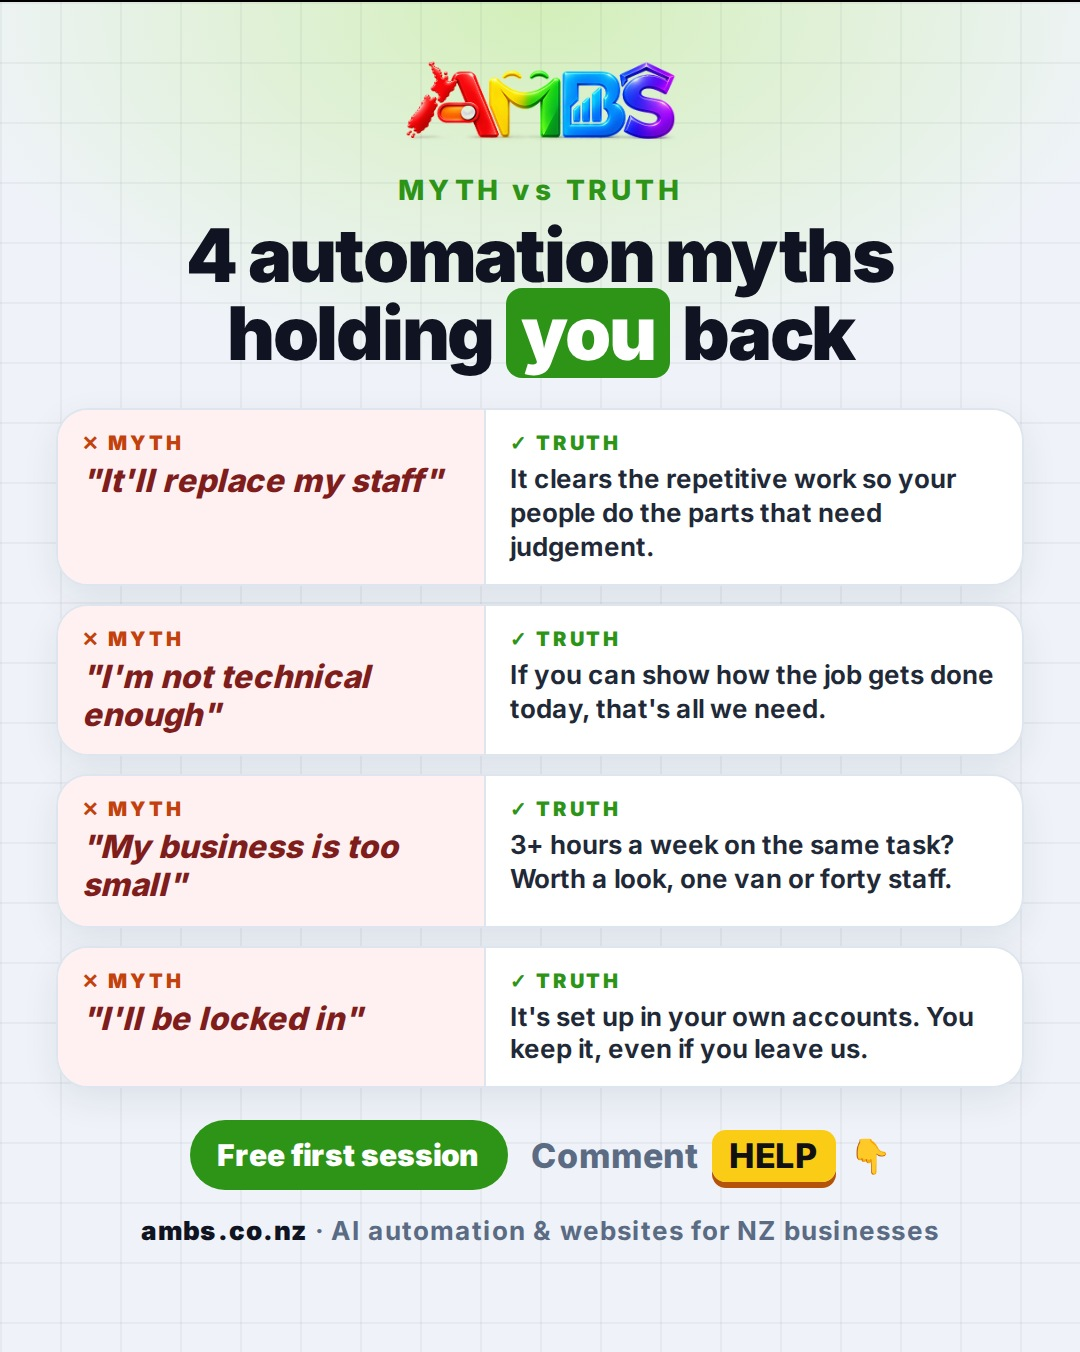
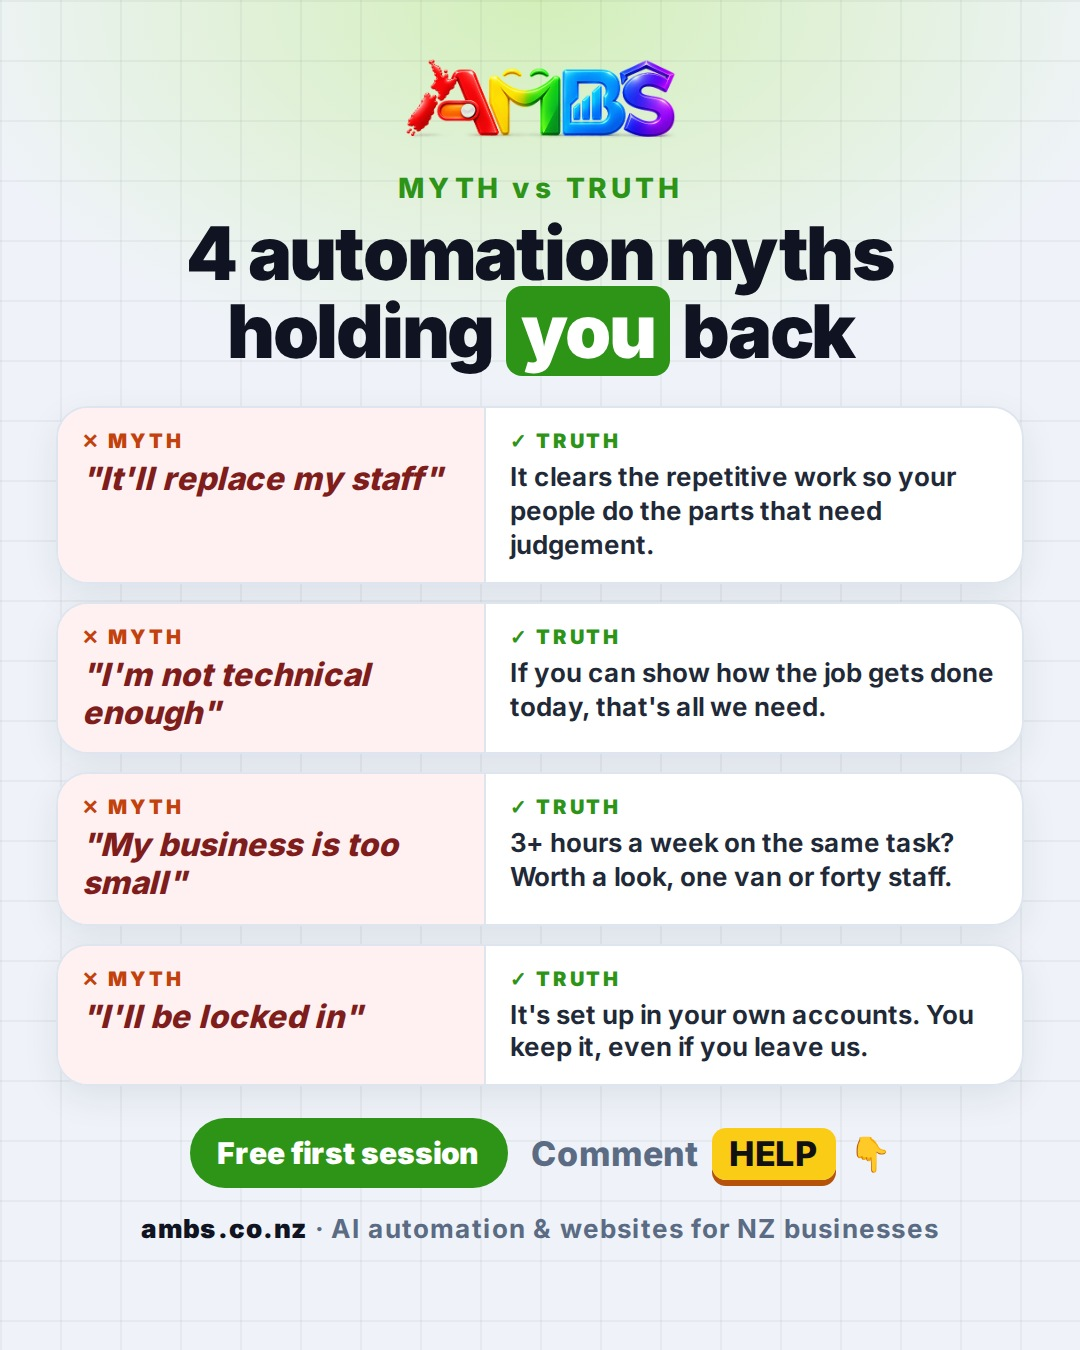
Add Delta Air testimonial posts (feed + story); fix poster edge rounding
Claude-Session: https://claude.ai/code/session_01UEFq6Row7p6wmTAvf3EyaN

diff --git a/marketing-videos/posters/_testimonial.css b/marketing-videos/posters/_testimonial.css
@@ -1,0 +1,18 @@
+/* Shared look for the Delta Air testimonial posts. Screenshot is 1440x2786; slices are shown at 480px wide (×1/3). */
+:root { --cream: #fbf6f1; --brown: #ad8876; --dk: #3a2a22; --gold: #f5b301; --green: #2E9418; }
+#frame { display: flex; flex-direction: column; align-items: center; text-align: center; color: var(--dk);
+  background: radial-gradient(70% 40% at 50% 0%, #f3e3d8 0%, transparent 70%), var(--cream); }
+#frame::before { background-image: radial-gradient(rgba(58,42,34,.07) 1px, transparent 1.4px); background-size: 18px 18px; }
+.logo { position: relative; width: 110px; }
+.kicker { position: relative; margin-top: 8px; font-size: 13px; font-weight: 900; letter-spacing: .18em; color: var(--brown); }
+.kicker span { font-family: var(--emoji); letter-spacing: 1px; }
+h1 { position: relative; margin-top: 6px; font-size: 34px; line-height: 1.06; font-weight: 900; letter-spacing: -.03em; padding: 0 26px; }
+h1 mark { background: var(--dk); color: #fff; padding: 0 8px; border-radius: 8px; }
+.card { position: relative; width: 480px; border-radius: 24px; overflow: hidden; background: var(--brown);
+  box-shadow: 0 20px 50px rgba(58,42,34,.28), 0 0 0 4px #fff; }
+.slice { width: 480px; background-image: url("img/delta-air-testimonial.jpg"); background-size: 480px auto; background-repeat: no-repeat; }
+.res { position: relative; display: inline-flex; gap: 10px; align-items: center; background: #fff; border: 2px solid rgba(46,148,24,.45);
+  border-radius: 16px; padding: 10px 16px; font-size: 16px; font-weight: 800; box-shadow: 0 8px 20px rgba(58,42,34,.08); }
+.res b { color: var(--green); }
+.cta { position: relative; font-size: 16px; font-weight: 800; color: #7a5f52; }
+.cta span.k { background: var(--dk); color: #fff; padding: 3px 9px; border-radius: 7px; margin: 0 3px; }

diff --git a/marketing-videos/posters/11-delta-air-testimonial-story.html b/marketing-videos/posters/11-delta-air-testimonial-story.html
@@ -1,0 +1,21 @@
+<!doctype html>
+<html lang="en-NZ"><head><meta charset="utf-8"><title>Poster — Delta Air testimonial (story)</title>
+<link rel="stylesheet" href="../engine/base.css"><link rel="stylesheet" href="_testimonial.css">
+<style>
+  .logo { margin-top: 64px; width: 100px; }
+  h1 { font-size: 30px; }
+  .card { margin-top: 16px; width: 440px; }
+  .slice { width: 440px; background-size: 440px auto; }
+  .res { font-size: 15px; }
+</style></head><body>
+<div id="frame">
+  <img class="logo" src="../assets/ambs-logo.png" alt="AMBS">
+  <div class="kicker">CLIENT LOVE <span>⭐⭐⭐⭐⭐</span></div>
+  <h1>You imagine it.<br><mark>We make it happen.</mark></h1>
+  <div class="card">
+    <div class="slice" style="height:58px;background-position:0 -46px"></div>
+    <div class="slice" style="height:542px;background-position:0 -209px"></div>
+  </div>
+  <div class="res" style="margin-top:22px"><span class="emoji">📈</span><span>Their new website is <b>bringing in a lot more business</b></span></div>
+  <div class="cta" style="margin-top:12px">Your website could be next <span class="emoji">👇</span></div>
+</div></body></html>

diff --git a/marketing-videos/posters/10-delta-air-testimonial.html b/marketing-videos/posters/10-delta-air-testimonial.html
@@ -1,0 +1,19 @@
+<!doctype html>
+<html lang="en-NZ"><head><meta charset="utf-8"><title>Poster — Delta Air testimonial (feed)</title>
+<link rel="stylesheet" href="../engine/base.css"><link rel="stylesheet" href="_testimonial.css">
+<style>
+  #frame { height: 675px; margin-top: -337.5px; }
+  .logo { margin-top: 22px; }
+  .card { margin-top: 16px; }
+</style></head><body>
+<div id="frame">
+  <img class="logo" src="../assets/ambs-logo.png" alt="AMBS">
+  <div class="kicker">CLIENT LOVE <span>⭐⭐⭐⭐⭐</span></div>
+  <h1>You imagine it.<br><mark>We make it happen.</mark></h1>
+  <div class="card">
+    <div class="slice" style="height:64px;background-position:0 -50px"></div>
+    <div class="slice" style="height:288px;background-position:0 -527px"></div>
+  </div>
+  <div class="res" style="margin-top:20px"><span class="emoji">📈</span><span>Their new website is <b>bringing in a lot more business</b></span></div>
+  <div class="cta" style="margin-top:14px">Want one? Comment <span class="k">WEBSITE</span> · ambs.co.nz</div>
+</div></body></html>

diff --git a/marketing-videos/posters/09-data-stays-yours.html b/marketing-videos/posters/09-data-stays-yours.html
@@ -4,7 +4,7 @@
 <style>
   /* 4:5 feed poster: 540x675 CSS => 1080x1350. Ocean teal + mint palette. */
   :root { --teal: #053b44; --teal2: #0b5563; --mint: #5eead4; --mint2: #ccfbf1; --wh: #f0fdfa; }
-  #frame { height: 675px; margin-top: -337px; display: flex; flex-direction: column; align-items: center; text-align: center; color: var(--wh);
+  #frame { height: 675px; margin-top: -337.5px; display: flex; flex-direction: column; align-items: center; text-align: center; color: var(--wh);
     background: radial-gradient(60% 40% at 50% 38%, rgba(94,234,212,.22), transparent 70%), linear-gradient(180deg, var(--teal2) 0%, var(--teal) 75%); }
   #frame::before { background-image: linear-gradient(rgba(204,251,241,.05) 1px, transparent 1px), linear-gradient(90deg, rgba(204,251,241,.05) 1px, transparent 1px);
     background-size: 26px 26px; }

diff --git a/marketing-videos/posters/08-review-replies.html b/marketing-videos/posters/08-review-replies.html
@@ -4,7 +4,7 @@
 <style>
   /* 4:5 feed poster: 540x675 CSS => 1080x1350. Lemon + black palette. */
   :root { --lemon: #FFD93D; --lemon2: #FFE97A; --ink: #111111; --grey: #4b4b4b; }
-  #frame { height: 675px; margin-top: -337px; display: flex; flex-direction: column; align-items: center; text-align: center; color: var(--ink);
+  #frame { height: 675px; margin-top: -337.5px; display: flex; flex-direction: column; align-items: center; text-align: center; color: var(--ink);
     background: radial-gradient(70% 40% at 100% 0%, var(--lemon2), transparent 70%), var(--lemon); }
   #frame::before { background-image: repeating-linear-gradient(-45deg, rgba(17,17,17,.045) 0 2px, transparent 2px 14px); }
   .logo { margin-top: 18px; width: 108px; position: relative; filter: drop-shadow(0 3px 0 rgba(17,17,17,.25)); }

diff --git a/marketing-videos/posters/07-email-signature.html b/marketing-videos/posters/07-email-signature.html
@@ -4,7 +4,7 @@
 <style>
   /* 4:5 feed poster: 540x675 CSS => 1080x1350. Plum + coral palette. */
   :root { --plum: #2a0f3a; --plum2: #3d1550; --coral: #ff6b6b; --peach: #ffb38a; --cream: #fff4ec; --lav: #d8c4e8; }
-  #frame { height: 675px; margin-top: -337px; display: flex; flex-direction: column; align-items: center; text-align: center; color: var(--cream);
+  #frame { height: 675px; margin-top: -337.5px; display: flex; flex-direction: column; align-items: center; text-align: center; color: var(--cream);
     background: radial-gradient(70% 45% at 85% 5%, rgba(255,107,107,.35), transparent 70%),
                 radial-gradient(60% 40% at 0% 100%, rgba(255,179,138,.25), transparent 70%),
                 linear-gradient(170deg, var(--plum2) 0%, var(--plum) 70%); }

diff --git a/marketing-videos/posters/01-five-jobs-to-automate.html b/marketing-videos/posters/01-five-jobs-to-automate.html
@@ -3,7 +3,7 @@
 <link rel="stylesheet" href="../engine/base.css">
 <style>
   /* 4:5 feed poster: 540x675 CSS => 1080x1350 */
-  #frame { height: 675px; margin-top: -337px; display: flex; flex-direction: column; align-items: center; text-align: center; }
+  #frame { height: 675px; margin-top: -337.5px; display: flex; flex-direction: column; align-items: center; text-align: center; }
   .logo { margin-top: 30px; width: 150px; position: relative; filter: drop-shadow(0 6px 18px rgba(0,0,0,.5)); }
   .kicker { position: relative; margin-top: 14px; font-size: 14px; font-weight: 800; letter-spacing: .16em; color: var(--accent); }
   h1 { position: relative; margin-top: 6px; font-size: 40px; line-height: 1.02; font-weight: 900; letter-spacing: -.03em; padding: 0 30px; }

diff --git a/marketing-videos/posters/04-why-ambs.html b/marketing-videos/posters/04-why-ambs.html
@@ -4,7 +4,7 @@
 <link rel="stylesheet" href="../engine/theme-website.css">
 <style>
   /* 4:5 feed poster: 540x675 CSS => 1080x1350 */
-  #frame { height: 675px; margin-top: -337px; display: flex; flex-direction: column; align-items: center; text-align: center; }
+  #frame { height: 675px; margin-top: -337.5px; display: flex; flex-direction: column; align-items: center; text-align: center; }
   .logo { margin-top: 26px; width: 136px; position: relative; }
   .kicker { position: relative; margin-top: 10px; font-size: 14px; font-weight: 800; letter-spacing: .16em; color: var(--accent); }
   h1 { position: relative; margin-top: 6px; font-size: 38px; line-height: 1.04; font-weight: 900; letter-spacing: -.03em; padding: 0 30px; }

diff --git a/marketing-videos/posters/05-no-shows.html b/marketing-videos/posters/05-no-shows.html
@@ -4,7 +4,7 @@
 <link rel="stylesheet" href="../engine/theme-website.css">
 <style>
   /* 4:5 feed poster: 540x675 CSS => 1080x1350 */
-  #frame { height: 675px; margin-top: -337px; display: flex; flex-direction: column; align-items: center; text-align: center; }
+  #frame { height: 675px; margin-top: -337.5px; display: flex; flex-direction: column; align-items: center; text-align: center; }
   .logo { margin-top: 24px; width: 130px; position: relative; }
   .kicker { position: relative; margin-top: 8px; font-size: 14px; font-weight: 800; letter-spacing: .16em; color: var(--accent); }
   h1 { position: relative; margin-top: 4px; font-size: 36px; line-height: 1.03; font-weight: 900; letter-spacing: -.03em; padding: 0 30px; }

diff --git a/marketing-videos/posters/06-typed-once.html b/marketing-videos/posters/06-typed-once.html
@@ -4,7 +4,7 @@
 <link rel="stylesheet" href="../engine/theme-website.css">
 <style>
   /* 4:5 feed poster: 540x675 CSS => 1080x1350 */
-  #frame { height: 675px; margin-top: -337px; display: flex; flex-direction: column; align-items: center; text-align: center; }
+  #frame { height: 675px; margin-top: -337.5px; display: flex; flex-direction: column; align-items: center; text-align: center; }
   .logo { margin-top: 24px; width: 130px; position: relative; }
   .kicker { position: relative; margin-top: 8px; font-size: 14px; font-weight: 800; letter-spacing: .16em; color: var(--accent); }
   h1 { position: relative; margin-top: 4px; font-size: 36px; line-height: 1.05; font-weight: 900; letter-spacing: -.03em; padding: 0 30px; }

diff --git a/marketing-videos/posters/02-website-costing-customers.html b/marketing-videos/posters/02-website-costing-customers.html
@@ -3,7 +3,7 @@
 <link rel="stylesheet" href="../engine/base.css">
 <style>
   /* 4:5 feed poster: 540x675 CSS => 1080x1350 */
-  #frame { height: 675px; margin-top: -337px; display: flex; flex-direction: column; align-items: center; text-align: center;
+  #frame { height: 675px; margin-top: -337.5px; display: flex; flex-direction: column; align-items: center; text-align: center;
     background: radial-gradient(90% 50% at 50% 0%, #4c1d2b 0%, transparent 60%),
                 radial-gradient(80% 50% at 100% 100%, #0f3b4a 0%, transparent 60%),
                 linear-gradient(180deg, var(--bg) 0%, var(--bg2) 100%); }

diff --git a/marketing-videos/posters/03-automation-myths-logo-rainbow.html b/marketing-videos/posters/03-automation-myths-logo-rainbow.html
@@ -3,7 +3,7 @@
 <link rel="stylesheet" href="../engine/base.css">
 <style>
   /* 4:5 feed poster: 540x675 CSS => 1080x1350 */
-  #frame { height: 675px; margin-top: -337px; display: flex; flex-direction: column; align-items: center; text-align: center;
+  #frame { height: 675px; margin-top: -337.5px; display: flex; flex-direction: column; align-items: center; text-align: center;
     background: radial-gradient(90% 50% at 50% 0%, #1e3a5f 0%, transparent 60%),
                 radial-gradient(80% 50% at 0% 100%, #14532d 0%, transparent 60%),
                 linear-gradient(180deg, var(--bg) 0%, var(--bg2) 100%); }
